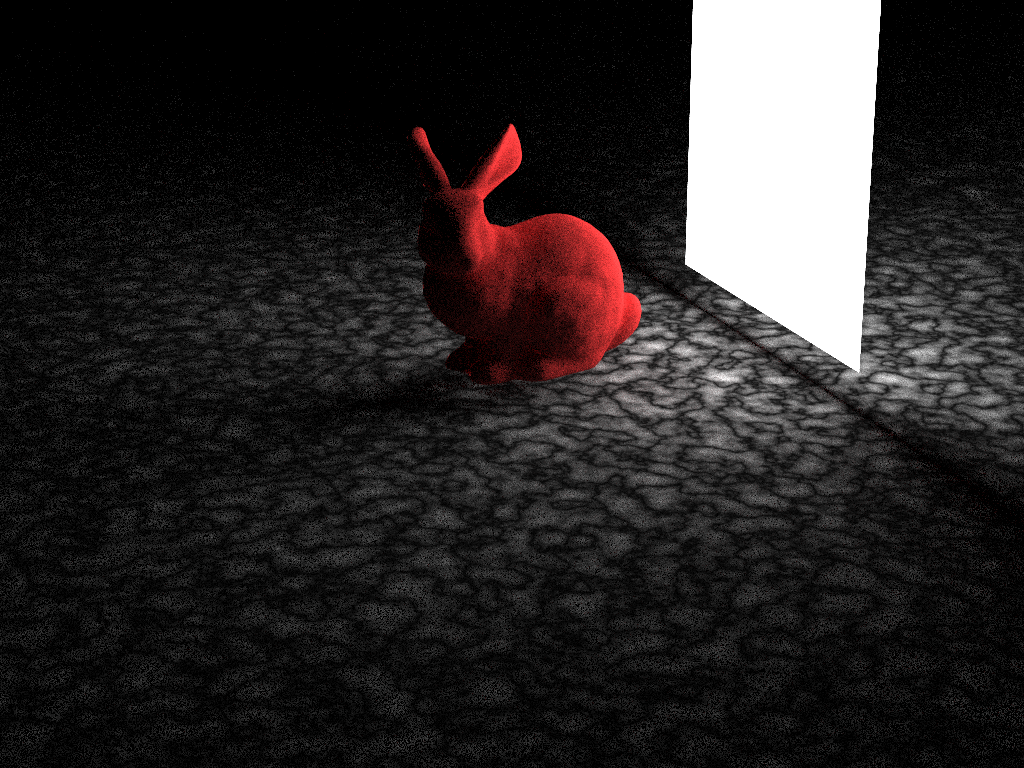
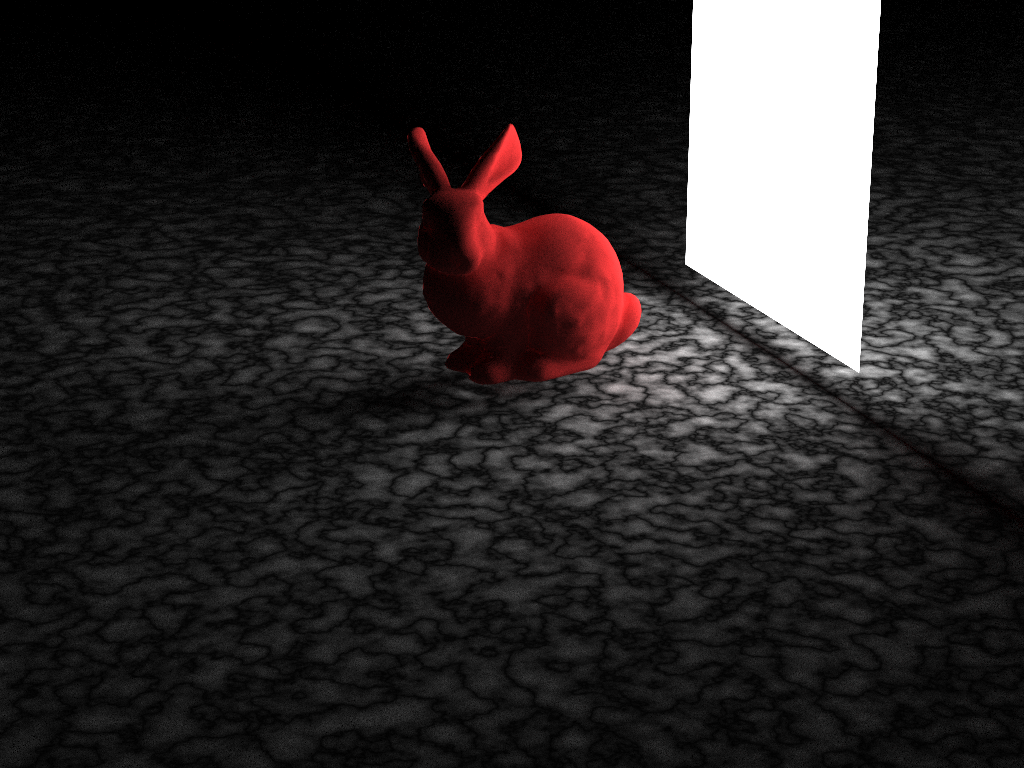
Update thumbnail

diff --git a/src/PBRenderer.cpp b/src/PBRenderer.cpp
@@ -25,7 +25,7 @@ int main(int argc, const char * argv[]) {
 
     const int image_width = 1024;
     const int image_height = 768;
-    const int samples_per_pixel = 3;
+    const int samples_per_pixel = 1024;
     const int max_depth = 5;
     const auto aspect_ratio = double(image_width) / image_height;
 
